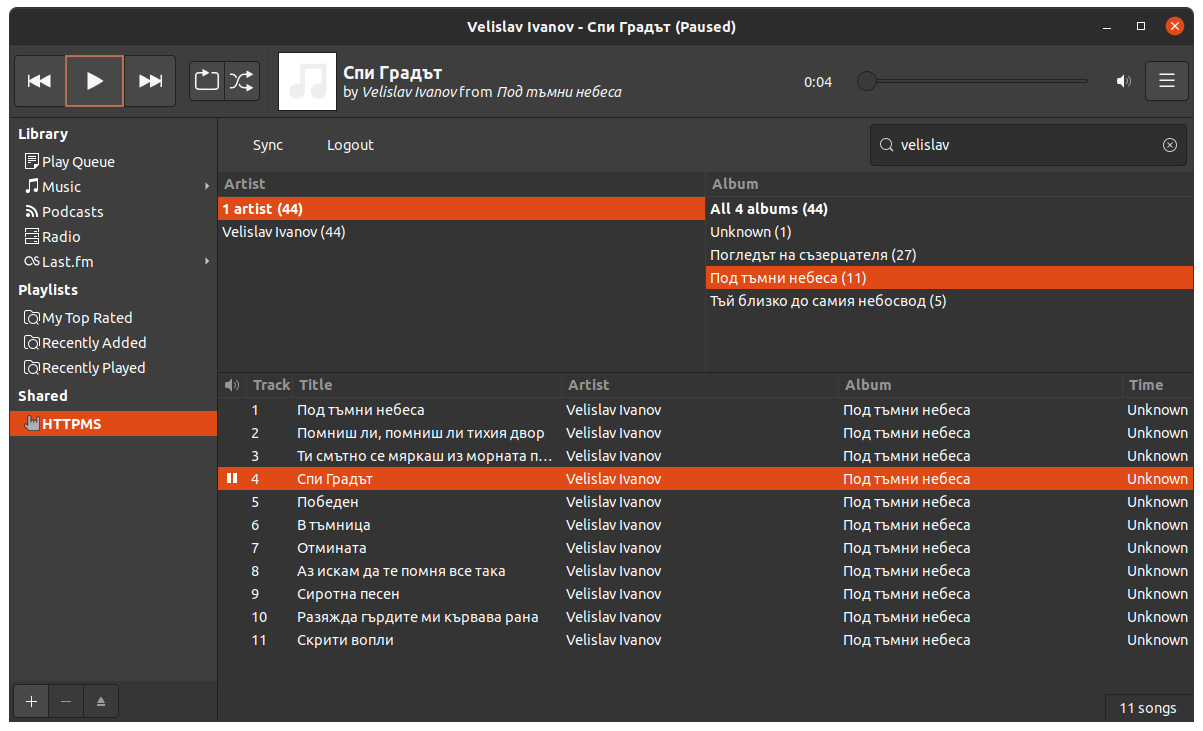
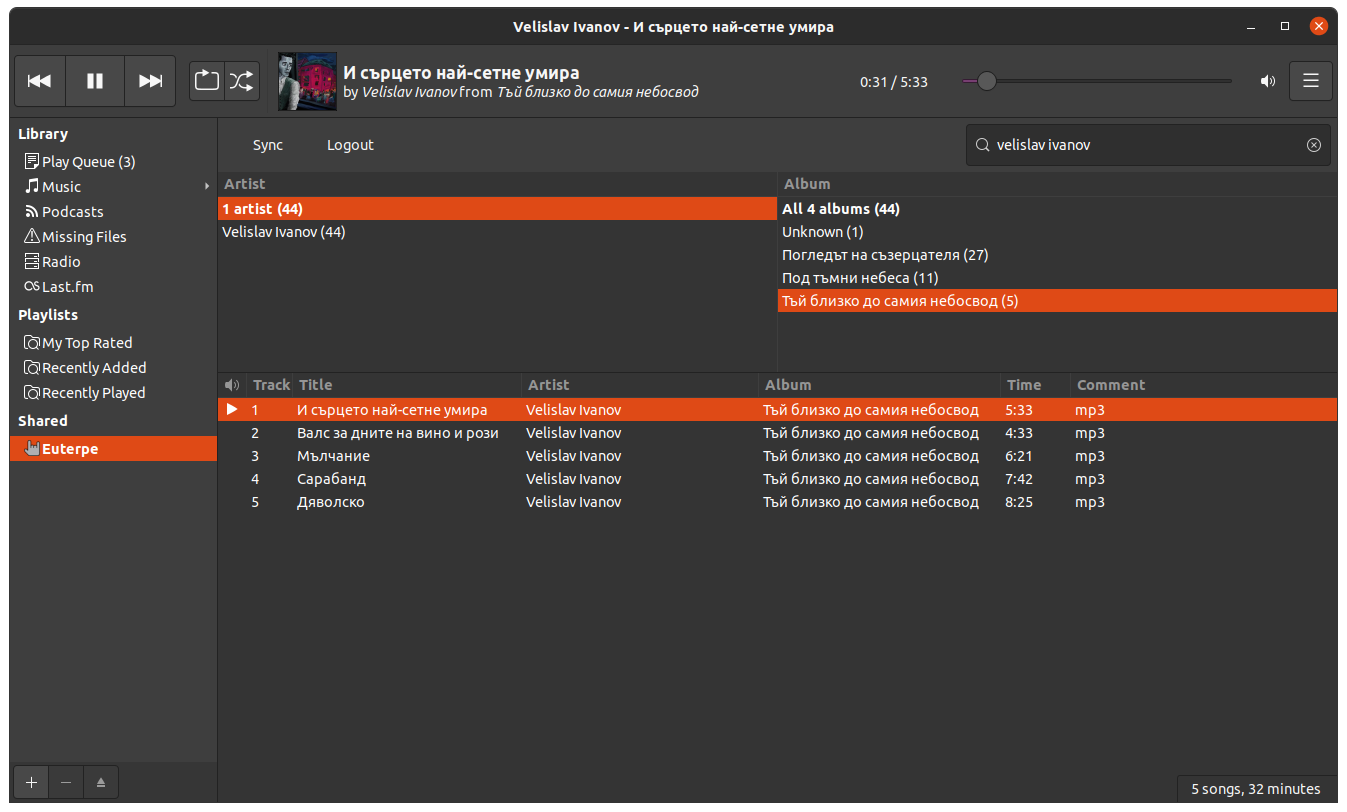
Rename HTTPMS to Euterpe

diff --git a/euterpe.py b/euterpe.py
@@ -5,30 +5,30 @@ import gettext
 import urllib.parse
 import os.path
 
-from httpmsloader import Loader
+from euterpeloader import Loader
 from gi.repository import GObject, RB, Peas, GLib, Gtk, GdkPixbuf
 
 gettext.install('rhythmbox', RB.locale_dir())
 
 
-class HTTPMSPlugin(GObject.Object, Peas.Activatable):
+class EuterpePlugin(GObject.Object, Peas.Activatable):
     object = GObject.property(type=GObject.Object)
 
     def __init__(self):
-        super(HTTPMSPlugin, self).__init__()
+        super(EuterpePlugin, self).__init__()
 
     def do_activate(self):
-        print("Activating HTTPMS plugin")
+        print("Activating Euterpe plugin")
 
         shell = self.object
         db = shell.props.db
-        entry_type = HTTPMSEntryType()
+        entry_type = EuterpeEntryType()
         db.register_entry_type(entry_type)
 
         model = RB.RhythmDBQueryModel.new_empty(db)
-        self.source = GObject.new(HTTPMSSource,
+        self.source = GObject.new(EuterpeSource,
                                   shell=shell,
-                                  name=("HTTPMS"),
+                                  name=("Euterpe"),
                                   plugin=self,
                                   query_model=model,
                                   entry_type=entry_type)
@@ -54,7 +54,7 @@ class HTTPMSPlugin(GObject.Object, Peas.Activatable):
         shell.register_entry_type_for_source(self.source, entry_type)
 
     def do_deactivate(self):
-        print("Deactivating HTTPMS plugin")
+        print("Deactivating Euterpe plugin")
 
         self.source.delete_thyself()
         del self.source
@@ -62,9 +62,9 @@ class HTTPMSPlugin(GObject.Object, Peas.Activatable):
         del self.icon
 
 
-class HTTPMSEntryType(RB.RhythmDBEntryType):
+class EuterpeEntryType(RB.RhythmDBEntryType):
     def __init__(self):
-        RB.RhythmDBEntryType.__init__(self, name='httpms-entry')
+        RB.RhythmDBEntryType.__init__(self, name='euterpe-entry')
 
     def do_can_sync_metadata(self, entry):
         return False
@@ -73,7 +73,7 @@ class HTTPMSEntryType(RB.RhythmDBEntryType):
         return entry.get_string(RB.RhythmDBPropType.MOUNTPOINT)
 
 
-class HTTPMSSource(RB.BrowserSource):
+class EuterpeSource(RB.BrowserSource):
     def __init__(self, **kwargs):
         RB.BrowserSource.__init__(self, **kwargs)
         self.loader = None
@@ -176,7 +176,7 @@ class HTTPMSSource(RB.BrowserSource):
 
         ui_file = os.path.join(
             Peas.PluginInfo.get_module_dir(self.props.plugin.plugin_info),
-            "httpms-rhythmbox.glade",
+            "euterpe-rhythmbox.glade",
         )
 
         self.builder.add_from_file(ui_file)
@@ -685,7 +685,7 @@ class HTTPMSSource(RB.BrowserSource):
         if data_dir is None:
             return None
 
-        return os.path.join(data_dir, "httpms.auth")
+        return os.path.join(data_dir, "euterpe.auth")
 
 
-GObject.type_register(HTTPMSSource)
+GObject.type_register(EuterpeSource)

diff --git a/README.md b/README.md
@@ -1,6 +1,6 @@
-# HTTPMS Plugin for Rhythmbox
+# Euterpe Plugin for Rhythmbox
 
-Using this plugin you can listen to your music served from a [HTTPMS server](https://github.com/ironsmile/httpms) directly in Rhythmbox.
+Using this plugin you can listen to your music served from a [Euterpe server](https://github.com/ironsmile/httpms) directly in Rhythmbox.
 
 ## Installation
 
@@ -11,11 +11,11 @@ Create a directory and place the contents of this repository under one of the fo
 
 ## Configuration
 
-There is no need for any configuration. It is all done via the plugin's UI on first activation. One will have to enter their HTTPMS address and optionally authentication if the server is protected. That's it!
+There is no need for any configuration. It is all done via the plugin's UI on first activation. One will have to enter their Euterpe address and optionally authentication if the server is protected. That's it!
 
 ## Usage
 
-After activating the plugin you will see a "HTTPMS" tab in the "Shared" group. In it you can use the "Search" menu to find your music.
+After activating the plugin you will see a "Euterpe" tab in the "Shared" group. In it you can use the "Search" menu to find your music.
 
 [![Plugin Screenshot](images/screenshot.png)](images/screenshot.png)
 
